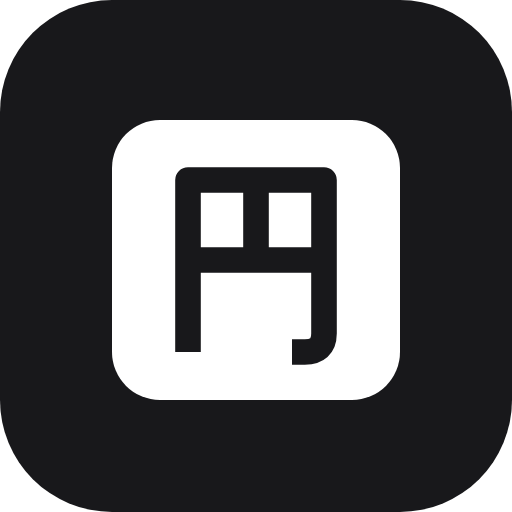
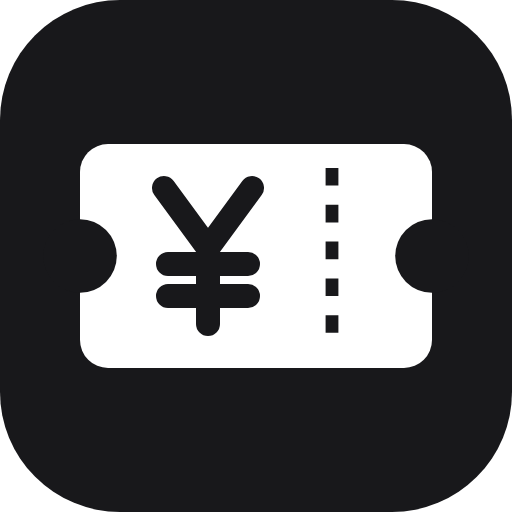
デザインの仕上げ: ロゴ・スタート画面の図・札の形・作業画面の手ごたえ・売上のグラフ
ロゴ（黒い角丸に白い番号札と¥）を作り、アプリのアイコン（PNG・maskable・iPhone用）も差しかえ。
スタート画面に「札を渡す → 会計 → 番号で呼ぶ」の見本の図と、特長のアイコンを追加。
札番号はどの画面でも左右に切り欠きのある札の形にし、厨房の札番号は黒い札にした。
キーパッド・ボタンに押せる感じの下線、PCでのホバー、伝票の文字を大きく。
時間帯別の売上を縦棒グラフに（売上のない時間帯も表示・押すと金額と件数・表で見る）。商品別に商品の色の印、割引は棒にせず文字で。

Claude-Session: https://claude.ai/code/session_01PicmMBCJGhNCp4oUFZbhpF

diff --git a/src/styles.css b/src/styles.css
@@ -1047,3 +1047,136 @@ a.btn { text-decoration: none; }
 .gate--wide .gate__title, .gate--wide .gate__home { justify-self: center; }
 .btn.is-disabled { pointer-events: none; background: #e9ecef; border-color: #e9ecef; color: #5b6470; }
 .home__terms a { color: inherit; }
+
+/* ---------- ブランド・スタート画面の仕上げ ---------- */
+.logo { flex-shrink: 0; display: block; }
+.start { gap: 32px; padding-top: 48px; }
+.start__hero { gap: 12px; }
+.start__title { font-weight: 800; }
+.start__lead { font-size: 1.02rem; }
+
+.flow { margin: 0; display: grid; grid-template-columns: 1fr auto 1fr auto 1fr; align-items: start; gap: 8px; }
+.flow__step { display: grid; gap: 10px; justify-items: center; }
+.flow__card {
+  width: 100%; aspect-ratio: 4 / 3; display: grid; align-content: center; gap: 6px; padding: 10px;
+  border-radius: 14px; background: #fff; border: 1px solid var(--line); box-shadow: 0 1px 2px rgba(24, 24, 27, 0.04), 0 8px 24px rgba(24, 24, 27, 0.06);
+  font-variant-numeric: tabular-nums;
+}
+.flow__label { font-size: 0.68rem; font-weight: 700; color: var(--muted); text-align: center; }
+.flow__card--ticket { justify-items: center; }
+.flow__ticket {
+  position: relative; padding: 4px 16px; border-radius: 6px; background: #18181b; color: #fff; font-size: clamp(1.1rem, 4.5vw, 1.6rem); font-weight: 800;
+  -webkit-mask: radial-gradient(circle 5px at 0 50%, transparent 98%, #000) left / 51% 100% no-repeat, radial-gradient(circle 5px at 100% 50%, transparent 98%, #000) right / 51% 100% no-repeat;
+          mask: radial-gradient(circle 5px at 0 50%, transparent 98%, #000) left / 51% 100% no-repeat, radial-gradient(circle 5px at 100% 50%, transparent 98%, #000) right / 51% 100% no-repeat;
+}
+.flow__items { display: grid; grid-template-columns: 1fr auto; gap: 2px 6px; font-size: clamp(0.62rem, 2.4vw, 0.8rem); }
+.flow__items span { display: flex; align-items: center; gap: 4px; white-space: nowrap; overflow: hidden; }
+.flow__items i { width: 3px; height: 0.9em; border-radius: 2px; flex-shrink: 0; }
+.flow__total { display: flex; justify-content: space-between; align-items: baseline; padding-top: 4px; border-top: 1px solid var(--divider); font-size: 0.7rem; color: var(--muted); }
+.flow__total b { color: var(--text); font-size: clamp(1rem, 4vw, 1.35rem); }
+.flow__total small { font-size: 0.6em; }
+.flow__card--call { justify-items: center; background: #fff; border: 2px solid #18181b; }
+.flow__call { font-size: clamp(1.4rem, 6vw, 2.1rem); font-weight: 900; line-height: 1; }
+.flow__arrow { align-self: center; margin-top: -24px; color: var(--muted); font-size: 1.1rem; }
+.flow figcaption { display: flex; align-items: center; gap: 6px; font-size: 0.85rem; font-weight: 700; }
+.flow figcaption b { display: inline-grid; place-items: center; width: 20px; height: 20px; border-radius: 50%; background: #18181b; color: #fff; font-size: 0.72rem; }
+
+.start-card { transition: border-color 120ms; }
+.start-card:not(.start-card--primary):hover { border-color: var(--text); }
+.start-card--primary { box-shadow: 0 8px 24px rgba(24, 24, 27, 0.18); }
+.start__features div { grid-template-columns: auto 1fr; column-gap: 10px; align-items: start; }
+.start__features .icon { grid-row: 1 / span 2; margin-top: 2px; color: var(--text); }
+/* 図は画面の幅に合わせて縮める（スマホで横にはみ出さない） */
+.flow { grid-template-columns: minmax(0, 1fr) auto minmax(0, 1fr) auto minmax(0, 1fr); gap: 6px; }
+.flow__step, .flow__card { min-width: 0; }
+.flow figcaption { font-size: clamp(0.7rem, 2.6vw, 0.85rem); white-space: nowrap; }
+@media (max-width: 480px) {
+  .flow__card { padding: 8px 6px; border-radius: 10px; }
+  .flow__arrow { font-size: 0.9rem; }
+  .flow__items { font-size: 0.6rem; }
+  .flow__ticket { padding: 3px 10px; }
+}
+.start-card--primary { align-content: center; }
+.flow { align-items: stretch; }
+.flow__step { grid-template-rows: 1fr auto; }
+.flow__card { aspect-ratio: auto; min-height: 84px; height: 100%; }
+
+/* =====================================================================
+ * 仕上げ: 番号札の形（ロゴと同じ、左右に切り欠きのある札）
+ * 札番号はどの画面でもこの形にして、「これは札の番号」とひと目で分かるようにする
+ * ===================================================================== */
+.done__ticket, .kcard__ticket, .ticket-panel__num, .dsp__num, .handover__ticket {
+  --notch: 10px;
+  -webkit-mask: radial-gradient(circle var(--notch) at 0 50%, transparent 97%, #000) left / 51% 100% no-repeat,
+                radial-gradient(circle var(--notch) at 100% 50%, transparent 97%, #000) right / 51% 100% no-repeat;
+          mask: radial-gradient(circle var(--notch) at 0 50%, transparent 97%, #000) left / 51% 100% no-repeat,
+                radial-gradient(circle var(--notch) at 100% 50%, transparent 97%, #000) right / 51% 100% no-repeat;
+}
+.done__ticket { --notch: 18px; padding-inline: 56px; }
+.ticket-panel__num { --notch: 9px; }
+.handover__ticket { --notch: 16px; }
+.dsp__num { --notch: clamp(8px, 1vw, 14px); padding-inline: 0.45em; }
+
+/* 厨房: 札番号を黒い札にする（遠くからでも目に入る） */
+.kcard__ticket { --notch: 7px; display: inline-block; padding: 4px 18px 5px; border-radius: 8px; background: #18181b; color: #fff; font-size: 2rem; }
+
+/* 会計完了: 「会計できました」を添える */
+.done__lead { color: var(--text); font-weight: 700; }
+
+/* =====================================================================
+ * 仕上げ: レジ（押しやすさと読みやすさ）
+ * ===================================================================== */
+.menu-card__name { font-size: 1.08rem; letter-spacing: 0.01em; }
+.menu-card__price { font-size: 1rem; font-weight: 600; color: #3f3f46; }
+@media (hover: hover) {
+  .menu-card:not(.is-soldout):not(.is-selected):hover { border-color: #52525b; }
+  .tk:not(.is-used):not(.is-selected):hover, .chip:not(:disabled):hover, .key:hover, .role:hover { border-color: #52525b; }
+}
+.menu-card__main:active:not(:disabled) { background: #f4f4f5; }
+.menu-card__qty { box-shadow: 0 0 0 3px #fff; }
+.keypad .key { border: 1px solid var(--line); box-shadow: inset 0 -2px 0 #ececef; font-weight: 600; }
+.keypad .key:active { background: #f4f4f5; box-shadow: none; }
+.key--sub { color: var(--muted); }
+.chip { box-shadow: inset 0 -2px 0 #f0f0f2; }
+.chip.is-on { box-shadow: 0 0 0 3px color-mix(in srgb, var(--accent) 18%, transparent); }
+.pay__line--total span:first-child, .bottom-bar__count { letter-spacing: 0.04em; }
+.pay__change.is-ready { box-shadow: inset 0 0 0 1px rgba(0, 0, 0, 0.06); }
+.btn--accent:not(:disabled) { box-shadow: 0 1px 2px rgba(24, 24, 27, 0.12), inset 0 -2px 0 rgba(0, 0, 0, 0.12); }
+.btn--accent:active:not(:disabled) { box-shadow: none; }
+.btn--ok:not(:disabled) { box-shadow: inset 0 -2px 0 rgba(0, 0, 0, 0.14); }
+
+/* 厨房の伝票 */
+.kcard { padding: 14px 16px 16px 18px; }
+.kcard__lines { font-size: 1.2rem; }
+.kcard__lines b { font-size: 1.3rem; }
+.kcard__time { font-variant-numeric: tabular-nums; }
+
+/* ---------- グラフ（時間帯別） ----------
+ * 1系列なのでお店の色1色。棒は細めで上の角だけ丸め、棒どうしは2pxあける。目盛り・軸は控えめに */
+.chart { position: relative; display: grid; gap: 6px; padding-top: 18px; }
+.chart__note { margin: -4px 0 0; }
+.chart__note b { color: var(--text); }
+.chart__max { position: absolute; top: 0; left: 0; font-size: 0.75rem; color: var(--muted); font-variant-numeric: tabular-nums; }
+.chart__bars { display: flex; align-items: flex-end; gap: 2px; height: 160px; border-bottom: 1px solid #d4d4d8; background: linear-gradient(to top, transparent calc(50% - 0.5px), #f0f0f2 calc(50% - 0.5px), #f0f0f2 calc(50% + 0.5px), transparent calc(50% + 0.5px)); }
+.chart__bar { position: relative; flex: 1 1 0; min-width: 0; height: 100%; display: flex; align-items: flex-end; justify-content: center; padding: 0; border: 0; background: none; cursor: default; }
+.chart__fill { width: 100%; max-width: 28px; border-radius: 4px 4px 0 0; background: var(--accent); }
+.chart__bar:hover .chart__fill, .chart__bar:focus-visible .chart__fill { background: color-mix(in srgb, var(--accent) 80%, #000); }
+.chart__tip {
+  position: absolute; bottom: calc(100% + 6px); left: 50%; transform: translateX(-50%); z-index: 2; display: none;
+  padding: 6px 10px; border-radius: 8px; background: #18181b; color: #fff; font-size: 0.78rem; white-space: nowrap; font-variant-numeric: tabular-nums;
+}
+.chart__tip b { display: block; font-size: 0.95rem; }
+.chart__bar:hover .chart__tip, .chart__bar:focus .chart__tip { display: block; }
+.chart__bar:first-child .chart__tip { left: 0; transform: none; }
+.chart__bar:last-child .chart__tip { left: auto; right: 0; transform: none; }
+.chart__axis { display: flex; gap: 2px; font-size: 0.72rem; color: var(--muted); font-variant-numeric: tabular-nums; }
+.chart__axis span { flex: 1 1 0; min-width: 0; overflow: visible; white-space: nowrap; }
+.chart__table summary { cursor: pointer; color: var(--muted); font-size: 0.85rem; min-height: 40px; display: flex; align-items: center; }
+.chart__table table { width: 100%; border-collapse: collapse; font-size: 0.88rem; font-variant-numeric: tabular-nums; }
+.chart__table th, .chart__table td { padding: 4px 6px; border-bottom: 1px solid var(--divider); text-align: right; }
+.chart__table th:first-child, .chart__table td:first-child { text-align: left; }
+.ranking__name { display: flex; align-items: center; }
+.ranking__discounts { margin: 4px 0 0; color: var(--muted); font-size: 0.85rem; }
+.meter { height: 8px; border-radius: 4px; }
+.meter span { border-radius: 4px; }
+.chart__axis span { text-align: center; }

diff --git a/src/components/Summary.tsx b/src/components/Summary.tsx
@@ -22,10 +22,14 @@ export function SubStats({ s }: { s: DaySummary }) {
   );
 }
 
-export function ItemRanking({ s, limit }: { s: DaySummary; limit?: number }) {
+/** 商品ごとの売上（多い順）。棒はお店の色1色、商品の色は名前の横の印で示す。割引は棒にせず下に文字で */
+export function ItemRanking({ s, limit, colors }: { s: DaySummary; limit?: number; colors?: Map<string, string> }) {
   if (s.items.length === 0) return <p className="hint">まだ売上がありません。</p>;
-  const items = limit ? s.items.slice(0, limit) : s.items;
+  const goods = s.items.filter((i) => i.amount >= 0);
+  const discounts = s.items.filter((i) => i.amount < 0);
+  const items = limit ? goods.slice(0, limit) : goods;
   const max = Math.max(...items.map((i) => i.amount), 1);
+  const total = goods.reduce((a, i) => a + i.amount, 0) || 1;
   return (
     <section className="panel">
       <h3 className="panel__title">商品別</h3>
@@ -33,33 +37,68 @@ export function ItemRanking({ s, limit }: { s: DaySummary; limit?: number }) {
         {items.map((i) => (
           <li key={i.itemId + i.name}>
             <div className="ranking__row">
-              <span className="ranking__name">{i.name}</span>
+              <span className="ranking__name">
+                {colors?.get(i.itemId) && <i className="swatch" style={{ background: colors.get(i.itemId) }} aria-hidden />}
+                {i.name}
+              </span>
               <span className="ranking__qty">{i.qty}個</span>
               <b className="ranking__amount">{yen(i.amount)}</b>
             </div>
-            <span className="meter"><span style={{ width: `${(i.amount / max) * 100}%` }} /></span>
+            <span className="meter" title={`${i.name}: ${yen(i.amount)}（売上の${Math.round((i.amount / total) * 100)}%）`}>
+              <span style={{ width: `${(i.amount / max) * 100}%` }} />
+            </span>
           </li>
         ))}
       </ul>
+      {discounts.length > 0 && (
+        <p className="ranking__discounts">割引: {discounts.map((d) => `${d.name} ${d.qty}回（−${yen(-d.amount)}）`).join("、")}</p>
+      )}
     </section>
   );
 }
 
+/** "10:30" → 分 */
+const toMin = (t: string) => { const [h, m] = t.split(":").map(Number); return h * 60 + m; };
+const toTime = (m: number) => `${String(Math.floor(m / 60)).padStart(2, "0")}:${String(m % 60).padStart(2, "0")}`;
+
+/**
+ * 時間帯ごとの売上（30分ごと）の縦棒グラフ。最初から最後の時間帯まで、売上のない時間帯も0として並べる。
+ * 棒を押す・指を当てると金額と件数が出る。「表で見る」で数字の表にもできる
+ */
 export function SlotBars({ s }: { s: DaySummary }) {
   if (s.slots.length === 0) return null;
-  const max = Math.max(...s.slots.map((x) => x.sales), 1);
+  const by = new Map(s.slots.map((x) => [toMin(x.start), x]));
+  const first = toMin(s.slots[0].start);
+  const last = toMin(s.slots[s.slots.length - 1].start);
+  const slots: { start: string; sales: number; count: number }[] = [];
+  for (let m = first; m <= last; m += 30) slots.push(by.get(m) ?? { start: toTime(m), sales: 0, count: 0 });
+  const max = Math.max(...slots.map((x) => x.sales), 1);
+  const peak = slots.reduce((a, x) => (x.sales > a.sales ? x : a), slots[0]);
   return (
     <section className="panel">
       <h3 className="panel__title">時間帯別（30分ごと）</h3>
-      <ul className="slots">
-        {s.slots.map((x) => (
-          <li key={x.start}>
-            <span className="slots__time">{x.start}</span>
-            <span className="meter"><span style={{ width: `${(x.sales / max) * 100}%` }} /></span>
-            <span className="slots__value">{yen(x.sales)}</span>
-          </li>
-        ))}
-      </ul>
+      <p className="hint chart__note">いちばん売れた時間帯: <b>{peak.start}〜</b>（{yen(peak.sales)}・{peak.count}件）</p>
+      <div className="chart" role="group" aria-label={`時間帯ごとの売上。最大は ${peak.start} からの ${yen(peak.sales)}`}>
+        <span className="chart__max">{yen(max)}</span>
+        <div className="chart__bars">
+          {slots.map((x) => (
+            <button key={x.start} type="button" className="chart__bar" aria-label={`${x.start}から ${yen(x.sales)} ${x.count}件`}>
+              <span className="chart__fill" style={{ height: `${x.sales > 0 ? Math.max((x.sales / max) * 100, 2) : 0}%` }} />
+              <span className="chart__tip" role="tooltip"><b>{yen(x.sales)}</b>{x.start}〜・{x.count}件</span>
+            </button>
+          ))}
+        </div>
+        <div className="chart__axis" aria-hidden>
+          {slots.map((x) => <span key={x.start}>{x.start.endsWith(":00") ? `${Number(x.start.split(":")[0])}時` : ""}</span>)}
+        </div>
+      </div>
+      <details className="chart__table">
+        <summary>表で見る</summary>
+        <table>
+          <thead><tr><th>時間</th><th>件数</th><th>売上</th></tr></thead>
+          <tbody>{slots.map((x) => <tr key={x.start}><td>{x.start}〜</td><td>{x.count}</td><td>{yen(x.sales)}</td></tr>)}</tbody>
+        </table>
+      </details>
     </section>
   );
 }

diff --git a/src/pages/Home.tsx b/src/pages/Home.tsx
@@ -1,6 +1,7 @@
 import { useEffect, useState, useSyncExternalStore } from "react";
 import { accentStyle } from "../components/ui";
-import { IconNext } from "../components/icons";
+import { IconDisplay, IconNext, IconOffline, IconTicket } from "../components/icons";
+import { Logo } from "../components/Logo";
 import { canPromptInstall, isIOS, isStandalone, onInstallChange, promptInstall } from "../install";
 import { forgetShop, myShops, type MyShop } from "../myshops";
 import { adminKey, api, ApiError, codeKey, load } from "../util";
@@ -41,7 +42,7 @@ export function Home() {
     <div className="page home-page">
       <main className="home">
         <header className="home__head">
-          <span className="brand-mark" aria-hidden>¥</span>
+          <Logo size={44} />
           <div>
             <h1 className="home__title">模擬店レジ</h1>
             <p className="home__lead">自分のお店の、担当の画面を押してください。</p>
@@ -145,10 +146,12 @@ function Start() {
     <div className="page home-page">
       <main className="start">
         <header className="start__hero">
-          <span className="brand-mark brand-mark--lg" aria-hidden>¥</span>
+          <Logo size={72} />
           <h1 className="start__title">模擬店レジ</h1>
           <p className="start__lead">文化祭・学園祭の模擬店のための、かんたん会計アプリ。<br />スマホだけで、レジ・厨房・呼び出し表示がつながります。</p>
         </header>
+
+        <FlowPreview />
 
         <section className="start__choices" aria-label="はじめかた">
           <a className="start-card start-card--primary" href="/new">
@@ -165,9 +168,9 @@ function Start() {
         </section>
 
         <section className="start__features" aria-label="特長">
-          <div><b>インストール不要</b><span>URLを開くだけ。ホーム画面に追加すればアプリのように使えます</span></div>
-          <div><b>電波が切れても会計できる</b><span>つながったら自動で送ります</span></div>
-          <div><b>お店ごとに分かれたデータ</b><span>売上やメニューは、ほかのお店からは見えません</span></div>
+          <div><IconDisplay size={22} /><b>インストール不要</b><span>URLを開くだけ。ホーム画面に追加すればアプリのように使えます</span></div>
+          <div><IconOffline size={22} /><b>電波が切れても会計できる</b><span>つながったら自動で送ります</span></div>
+          <div><IconTicket size={22} /><b>お店ごとに分かれたデータ</b><span>売上やメニューは、ほかのお店からは見えません</span></div>
         </section>
 
         <section className="start__steps" aria-label="使い方">
@@ -207,5 +210,39 @@ function JoinByLink({ compact }: { compact?: boolean }) {
       </div>
       {error && <p className="error">{error}</p>}
     </form>
+  );
+}
+
+/** スタート画面の図: 札を渡す → 会計 → 呼び出し の流れを、実際の画面に似せた小さな見本で見せる（飾り） */
+function FlowPreview() {
+  return (
+    <figure className="flow" aria-label="使い方の流れ: 札を渡す、会計する、番号で呼び出す">
+      <div className="flow__step">
+        <div className="flow__card flow__card--ticket" aria-hidden>
+          <span className="flow__label">札</span>
+          <span className="flow__ticket">A-5</span>
+        </div>
+        <figcaption><b>1</b>札を渡す</figcaption>
+      </div>
+      <span className="flow__arrow" aria-hidden>→</span>
+      <div className="flow__step">
+        <div className="flow__card" aria-hidden>
+          <div className="flow__items">
+            <span><i style={{ background: "#e5484d" }} />焼きそば</span><b>×2</b>
+            <span><i style={{ background: "#0090ff" }} />ラムネ</span><b>×1</b>
+          </div>
+          <div className="flow__total"><span>合計</span><b>750<small>円</small></b></div>
+        </div>
+        <figcaption><b>2</b>会計する</figcaption>
+      </div>
+      <span className="flow__arrow" aria-hidden>→</span>
+      <div className="flow__step">
+        <div className="flow__card flow__card--call" aria-hidden>
+          <span className="flow__label">お呼び出し</span>
+          <span className="flow__call">A-5</span>
+        </div>
+        <figcaption><b>3</b>番号で呼ぶ</figcaption>
+      </div>
+    </figure>
   );
 }

diff --git a/src/components/Logo.tsx b/src/components/Logo.tsx
@@ -1,0 +1,11 @@
+/**
+ * 模擬店レジのロゴ。黒い角丸の中に、白い「番号札」（左右に切り欠き・ミシン目）と ¥ の印。
+ * 文字（フォント）を使わず線で描くので、どの端末でも同じ形になる。public/icon.svg も同じ形
+ */
+export function Logo({ size = 40, className = "" }: { size?: number; className?: string }) {
+  return (
+    <svg className={`logo ${className}`} width={size} height={size} viewBox="0 0 64 64" aria-hidden>
+      <rect width="64" height="64" rx="15" fill="#18181b" /><rect x="10" y="18" width="44" height="28" rx="3.5" fill="#fff" /><circle cx="10" cy="32" r="4.6" fill="#18181b" /><circle cx="54" cy="32" r="4.6" fill="#18181b" /><path d="M41.5 21v22" stroke="#18181b" strokeWidth="1.6" strokeDasharray="2.2 2.4" /><path d="M20.5 23.5l5.5 7.5 5.5-7.5M26 31v9.5M21 33h10M21 37h10" fill="none" stroke="#18181b" strokeWidth="3" strokeLinecap="round" strokeLinejoin="round" />
+    </svg>
+  );
+}

diff --git a/src/pages/ShopAdmin.tsx b/src/pages/ShopAdmin.tsx
@@ -139,7 +139,7 @@ export function ShopAdmin({ shopId, code, onAuthError }: { shopId: string; code:
                 <h2 className="day-heading">{label(day)} の売上</h2>
                 <Kpis s={sum} />
                 <SubStats s={sum} />
-                <ItemRanking s={sum} />
+                <ItemRanking s={sum} colors={new Map(st.menu.map((m, i) => [m.id, menuColor(m, i).solid]))} />
                 <SlotBars s={sum} />
                 <Btn onClick={() => void downloadCsv()}>この日のCSVを書き出す</Btn>
                 <a className="btn" href={`/${shopId}/report?day=${day}`}>この日の日報を開く（印刷・PDF）</a>

diff --git a/CLAUDE.md b/CLAUDE.md
@@ -15,6 +15,8 @@
 - 文字は端末の標準の日本語フォント。数字は `font-variant-numeric: tabular-nums` で桁をそろえる
 - 色は「お店の色（`--accent`）」1色だけを、ヘッダー・主要なボタン・選択中の表示に使う。状態の色（できた＝緑、調理中＝黄）は文字ラベルと一緒に
 - 呼び出し表示（店先のモニター）だけは例外で、お客さん向けに控えめな動きを使う（新しい番号がふわっと出る・光の輪が3回だけ広がる・案内文がゆっくり入れ替わる）。点滅はしない。端末の「視差効果を減らす」設定では止まる。昼は白地に黒の太字、夜は黒地を切り替えられる
+- ロゴは黒い角丸に白い番号札（`src/components/Logo.tsx`・`public/icon.svg`）。**札番号はどの画面でも左右に切り欠きのある「札の形」**にして、札の番号だとひと目で分かるようにする
+- グラフは1系列ならお店の色1色。商品の色は名前の横の印で示し、棒には使わない。押すと数字が出て、「表で見る」で表にもできる
 - 強調するのは「金額」「札番号」「次に押すボタン」の3つだけ。同じ操作を何百回も繰り返すので、毎回同じ場所・同じ見た目であることを優先する
 
 ## ユニバーサルデザイン（方向性より優先する）
